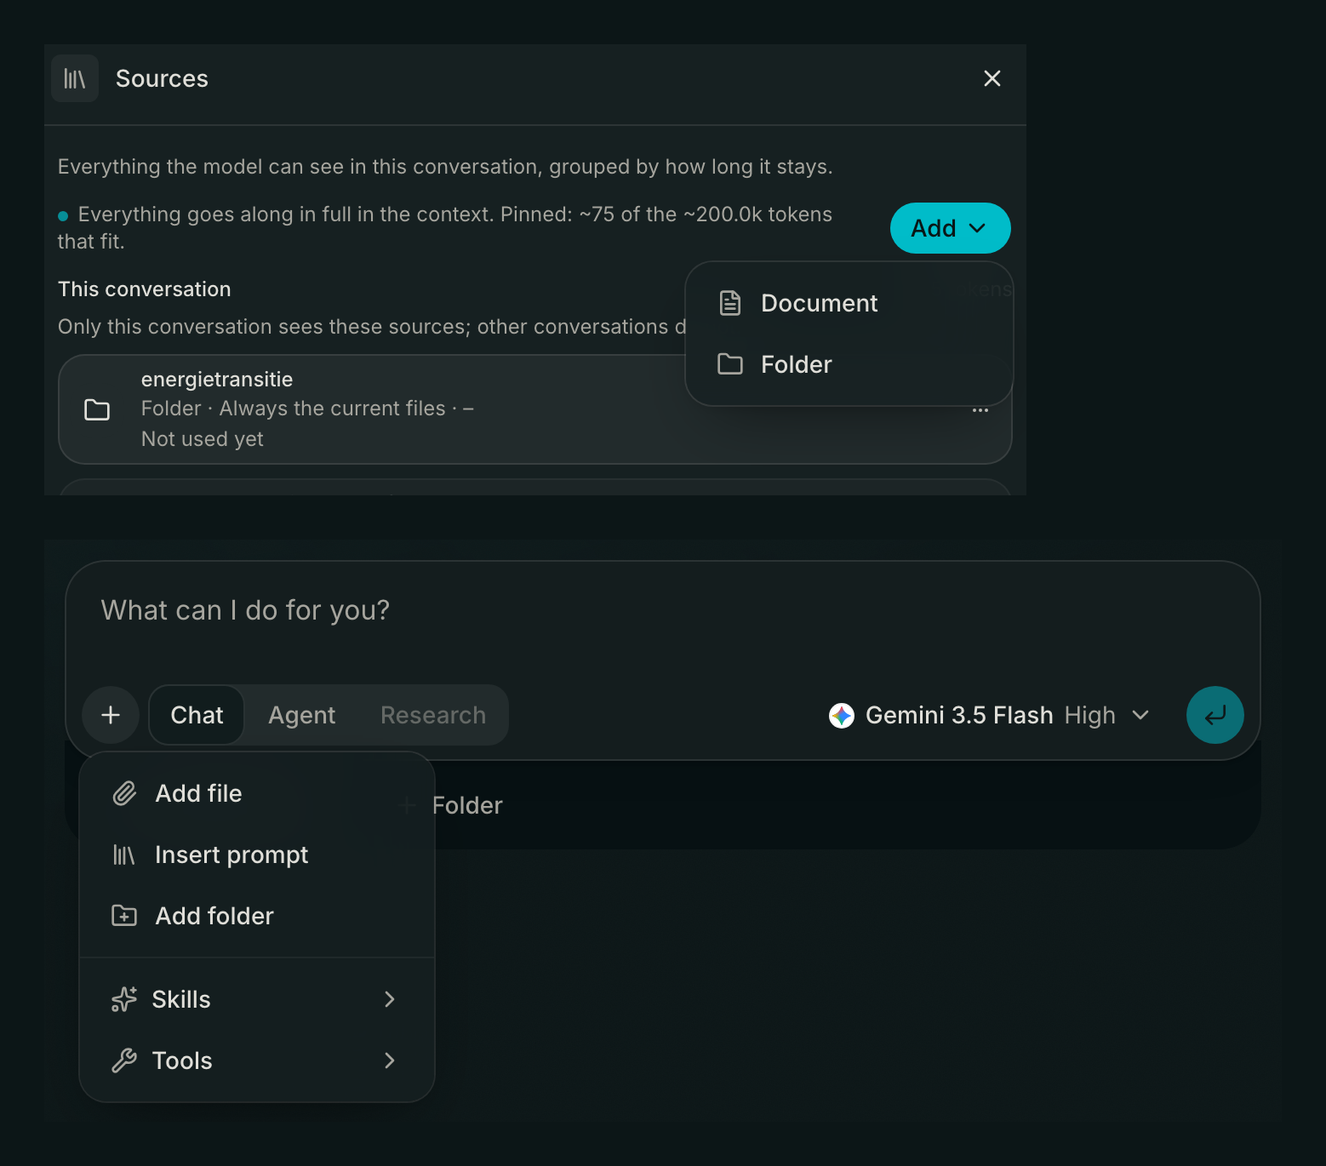
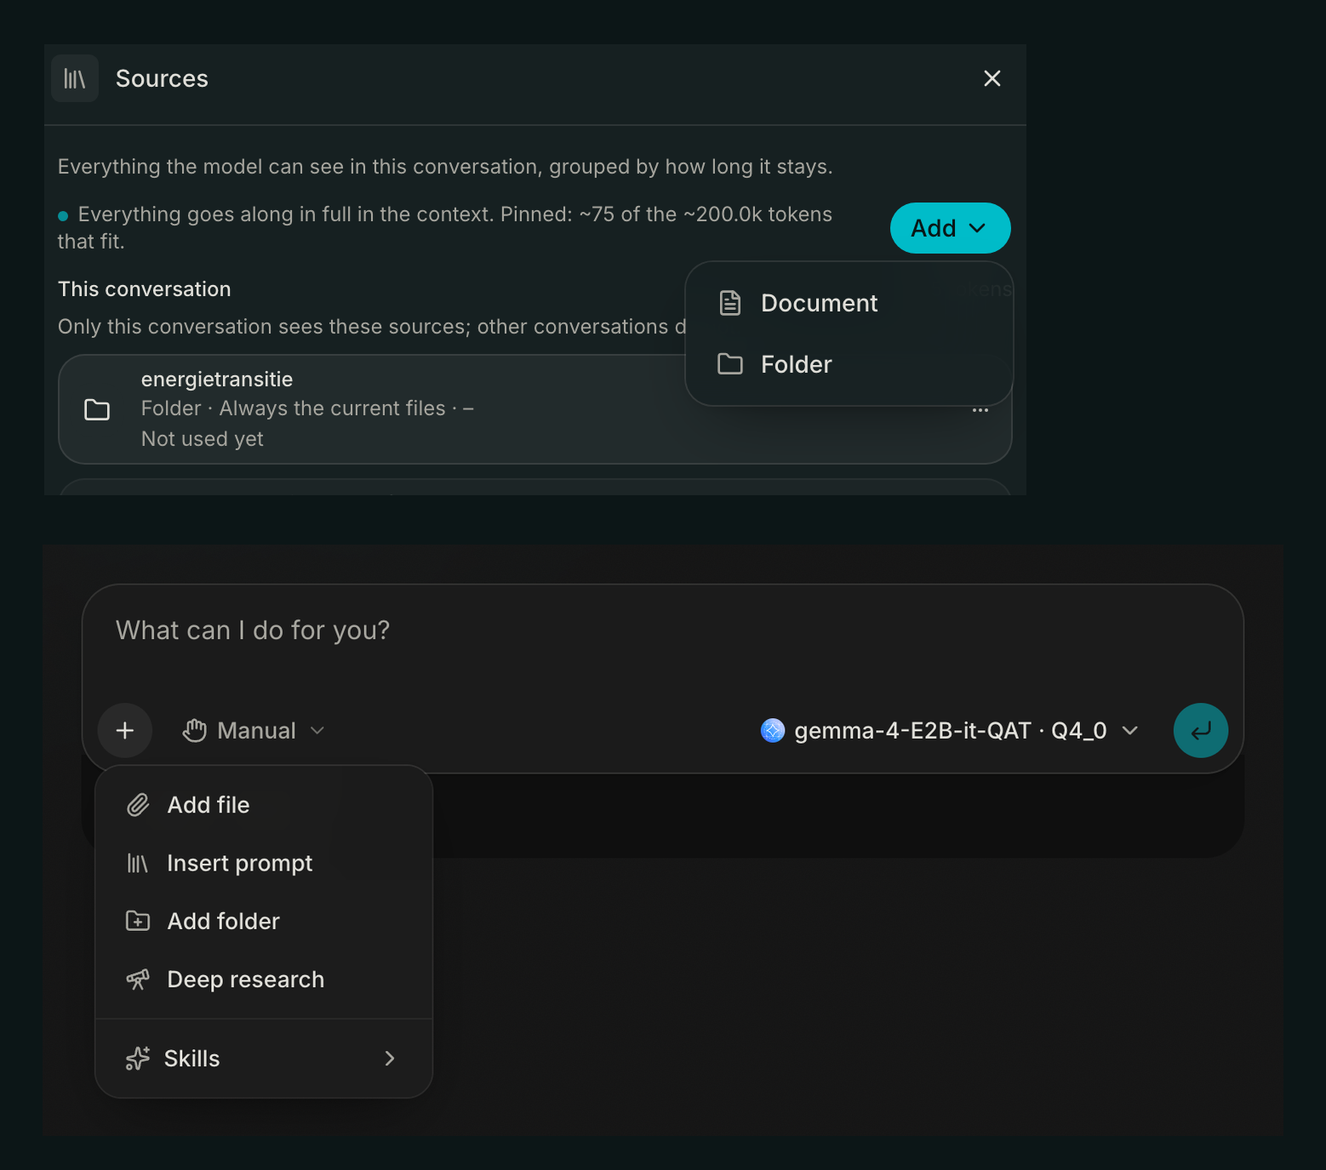
Documentatiesite bijgewerkt

diff --git a/docs/using/skills.html b/docs/using/skills.html
@@ -4,7 +4,7 @@
     <meta charset="utf-8" />
     <meta name="viewport" content="width=device-width, initial-scale=1" />
     <title>Skills - Omnissiah</title>
-    <meta name="description" content="Reusable instructions you switch on per conversation, written yourself or fetched from elsewhere." />
+    <meta name="description" content="Reusable instructions you attach to a message, or that the model picks up itself, written yourself or fetched from elsewhere." />
     <meta name="color-scheme" content="light dark" />
 
     <link rel="preconnect" href="https://fonts.googleapis.com" />
@@ -125,10 +125,12 @@
             <li><a href="#where-a-skill-lives">Where a skill lives</a></li>
             <li><a href="#writing-a-skill-yourself">Writing a skill yourself</a></li>
             <li><a href="#getting-a-skill-from-elsewhere">Getting a skill from elsewhere</a></li>
-            <li><a href="#switching-a-skill-on">Switching a skill on</a></li>
+            <li><a href="#attaching-a-skill-to-a-message">Attaching a skill to a message</a></li>
+            <li><a href="#who-may-invoke-a-skill">Who may invoke a skill</a></li>
             <li><a href="#what-the-model-does-with-your-skills">What the model does with your skills</a></li>
             <li><a href="#skills-that-arise-by-themselves">Skills that arise by themselves</a></li>
             <li><a href="#editing-and-deleting">Editing and deleting</a></li>
+            <li><a href="#when-a-skill-file-is-not-in-order">When a skill file is not in order</a></li>
           </ul>
         </li>
         <li><a href="memory.html">Memory</a></li>
@@ -163,8 +165,8 @@
         <article class="prose">
           <p class="kruimel"><a href="index.html">Working with Omnissiah</a></p>
           <h1>Skills</h1>
-          <p>A skill is a piece of instruction you keep and use again. The page sums it up: &quot;Skills are reusable instructions. An active skill colours the answers in the conversation.&quot; You find them behind <strong>Skills</strong> in the sidebar; that button takes you to the page <strong>Skills</strong>.</p>
-<p>Unlike a persona, a skill replaces nothing: it comes on top of what is already there, and you can have several on at once.</p>
+          <p>A skill is a piece of instruction you keep and use again. The page sums it up: &quot;Skills are reusable instructions. Attach one to a message with / in the composer; the model can also load one itself when the description fits.&quot; You find them behind <strong>Skills</strong> in the sidebar; that button takes you to the page <strong>Skills</strong>.</p>
+<p>Unlike a persona, a skill replaces nothing: it comes on top of what is already there, and you can attach several to one message. A skill reaches the model in two ways: you attach it to a message yourself, or the model picks it from the list on its own when the description fits your question. Nothing is switched on per conversation; a skill you attach belongs to that message and stays in the conversation history with it.</p>
 <h2 id="where-a-skill-lives">Where a skill lives</h2>
 <p>Every skill is a folder with a <code>SKILL.md</code> in it, in the <code>skills/</code> folder of your data folder. That is ordinary markdown with a name and a description at the top, so you can just as well open it in your own editor. It is the same format Claude uses, so skills are interchangeable. See <a href="../data-and-backup.html#what-is-in-it">Data and backup</a>.</p>
 <h2 id="writing-a-skill-yourself">Writing a skill yourself</h2>
@@ -178,32 +180,40 @@
 <p>In the same <strong>Add skill</strong> menu are two other ways in:</p>
 <p><strong>Import…</strong> reads a <code>SKILL.md</code> file from your disk and opens it in the editor. Nothing is stored until you click <strong>Save</strong>.</p>
 <p><strong>From a URL…</strong> fetches a skill from the internet. You paste a GitHub folder (&quot;github.com/anthropics/skills/tree/main/…&quot;) or the direct URL of a <code>SKILL.md</code>. Omnissiah fetches the skill, checks it over and puts it in the editor for review: where it came from, the files that came with it and what the scan found. Only then does the <strong>Install</strong> button appear.</p>
-<p>If the scan found something, it is stated as a warning: &quot;External skills are untrusted. Read the instructions above before you install.&quot; Installing then asks for an extra confirmation. A flag is a reason to look, not a lock; what exactly is scanned is on <a href="../privacy.html#what-comes-in-is-looked-at-first">Privacy and security</a>. Skills you fetch this way carry the label <strong>imported</strong> in the list.</p>
-<h2 id="switching-a-skill-on">Switching a skill on</h2>
-<p>Two ways, both per conversation:</p>
+<p>If the scan found something, it is stated as a warning: &quot;External skills are untrusted. Read the instructions above before you install.&quot; Installing then asks for an extra confirmation. A flag is a reason to look, not a lock; what exactly is scanned is on <a href="../privacy.html#what-comes-in-is-looked-at-first">Privacy and security</a>. Skills you fetch this way carry the label <strong>hub</strong> in the list, and the settings in their file (see below) survive the installation.</p>
+<h2 id="attaching-a-skill-to-a-message">Attaching a skill to a message</h2>
+<p>Two ways in, and both do the same thing: they add a chip above the input bar for the message you are about to send.</p>
 <ul>
-<li>Click the <strong>+</strong> on the input bar and open the list <strong>Skills</strong>. Ticking switches it on.</li>
-<li>Type a <code>/</code> in the input bar. A menu with your skills appears, filtering on whatever you type next; Enter or a click switches it on and removes the <code>/</code> word from your text. Skills that are already on have &quot;· active&quot; after them.</li>
+<li>Type a <code>/</code> in the input bar. A menu the width of the input bar appears with two sections: <strong>Commands</strong> (for now only <strong>Deep research</strong>) and <strong>Skills</strong>, each skill with its description and, in grey, where it came from. Whatever you type after the <code>/</code> filters the list; Enter or a click adds the skill and removes the <code>/</code> word from your text. At the bottom sits <strong>Manage skills…</strong>, which opens this page.</li>
+<li>Click the <strong>+</strong> on the input bar and open the list <strong>Skills</strong>. It shows the same rows; a click adds the chip.</li>
 </ul>
-<p>An active skill appears as a chip above the input bar, with a cross to switch it off again.</p>
+<p>Every chip has a cross to take it off again, and you can combine skills with <strong>Deep research</strong>. There is a soft ceiling: &quot;At most 5 skills per message.&quot; When you send, the chips go along with that message and the input bar is empty again. The sent message shows the skills it carried as chips at the top, and the action timeline of the answer says &quot;Skill ‘name’ attached to the message&quot;. Edit that message, or retry the answer, and the same skills go along again.</p>
+<h2 id="who-may-invoke-a-skill">Who may invoke a skill</h2>
+<p>For every skill you decide who may use it, in two layers.</p>
+<p>The <strong>skill file</strong> carries the default. The same fields other tools use work here: <code>disable-model-invocation: true</code> (Claude Code) or <code>allow_implicit_invocation: false</code> in <code>agents/openai.yaml</code> (Codex) mean &quot;only you&quot;, and <code>user-invocable: false</code> means &quot;only the model&quot;. A skill fetched from elsewhere keeps its author&#39;s intent that way.</p>
+<p>On the Skills page every skill has a picker next to it, <strong>Who may invoke</strong>. <strong>Follow the file</strong> is the default and states what the file says; the other four settings overrule the file: <strong>You and the model</strong>, <strong>Only you (/ menu)</strong>, <strong>Only the model</strong> and <strong>Off</strong>. Off keeps the skill installed but offers it nowhere, which is the right setting for a skill you are still weighing. Skills only the model may use do not appear in the <code>/</code> menu; skills only you may use are not in the model&#39;s list.</p>
+<p>One name is reserved: <code>research</code> is the command behind <code>/research</code>. A skill folder with that name gets a warning on the Skills page and cannot be attached with <code>/</code>; rename the folder.</p>
 <h2 id="what-the-model-does-with-your-skills">What the model does with your skills</h2>
 <p>Not everything goes along every turn, and that is deliberate: skills that sit fully in the prompt cost room in every turn.</p>
 <ul>
-<li><strong>Skills you switched on</strong> are in there in full.</li>
-<li><strong>Their extra files</strong> (a <code>references/</code> folder for instance) are in there only as a list of paths. The assistant reads one when the task calls for it.</li>
-<li><strong>The skills you did <em>not</em> switch on</strong> are in there as an index: name and description, one line per skill. If one fits your question, the assistant fetches the full instructions itself.</li>
+<li><strong>A skill you attached</strong> goes along with that message in full.</li>
+<li><strong>Its extra files</strong> (a <code>references/</code> folder for instance) are in there only as a list of paths. The assistant reads one when the task calls for it.</li>
+<li><strong>The skills the model may pick itself</strong> are in the prompt as an index: name and description, one line per skill. If one fits your question, the assistant fetches the full instructions itself.</li>
 </ul>
 <p>That last part is why that one description line counts: it is the only thing the model can see whether a skill is relevant by.</p>
-<p>If you run a local model that does not support tools, that fetching cannot happen. The active skills then go along in full including their extra files, and the index stays away: the prompt never promises something that is not there.</p>
+<p>If you run a local model that does not support tools, that fetching cannot happen. An attached skill then goes along in full including its extra files, and the index stays away: the prompt never promises something that is not there.</p>
+<p>A skill attached to a message from long ago falls out of view when a long conversation is <a href="conversations.html#when-a-conversation-gets-long">condensed</a>: the summary keeps the gist, not the instruction. Attach it again if you still want it.</p>
 <h2 id="skills-that-arise-by-themselves">Skills that arise by themselves</h2>
 <p>Two things can propose a skill. With both, you approve, and until that moment nothing is stored.</p>
-<p><strong>The assistant, during a conversation.</strong> Ask for it, or ask repeatedly for the same kind of help, and it can propose a skill. That proposal appears in the chat and waits for <strong>Approve</strong> or <strong>Reject</strong>. That happens through a tool called <strong>Propose skills</strong>; it is always available and every proposal waits for your approval, so there is nothing to switch off.</p>
+<p><strong>The assistant, during a conversation.</strong> Ask for it, or ask repeatedly for the same kind of help, and it can propose a skill. That proposal appears in the chat and waits for <strong>Approve</strong> or <strong>Reject</strong>. That happens through a tool called <strong>Propose skills</strong>; it is always available and every proposal waits for your approval, so there is nothing to switch off. A skill that came into being this way carries the label <strong>assistant</strong> in the list; the ones you wrote yourself say <strong>own</strong>, the ones you fetched say <strong>hub</strong>.</p>
 <p><strong>A helper model, after a turn.</strong> That checks whether the conversation holds a reusable lesson - the same post-turn review that also looks at your <a href="memory.html#suggestions-from-conversations">memory</a>. Such proposals pile up under <strong>Proposals from conversations</strong> on the Skills page, with a counter on the button in the sidebar: &quot;The assistant saw a reusable lesson here. Nothing is saved until you approve.&quot; Per proposal the reason is stated, with a quote from the message it rests on, and with <strong>View text</strong> you can read the whole skill first.</p>
 <p>If you do not want that, switch <strong>Self-learning skills</strong> off under Settings → General → Helper tasks. Which model does this you set there too; see <a href="models.html#helper-models-for-side-jobs">Models</a>.</p>
 <p>Skill and memory proposals share one ceiling per conversation - <strong>Suggestions per conversation</strong>, 3 by default. Once that is reached the review stops for the rest of that conversation, even if there was more to learn. Approving does not free up a slot: the ceiling counts every proposal that was made, whether you approved it or rejected it.</p>
 <p>A scheduled task makes no proposals at all: a run without anyone watching would only pile them up.</p>
 <h2 id="editing-and-deleting">Editing and deleting</h2>
-<p>Click a skill in the list to open it, or use the pencil. Deleting asks for confirmation and is final: &quot;This cannot be undone.&quot; The folder disappears from your disk, so your backup is your only way back.</p>
+<p>Click a skill in the list to open it, or use the pencil. Below the instructions the editor lists the files in the skill folder, such as a <code>references/</code> or <code>scripts/</code> folder; scripts are listed, not run. Deleting asks for confirmation and is final: &quot;This cannot be undone.&quot; The folder disappears from your disk, so your backup is your only way back.</p>
+<h2 id="when-a-skill-file-is-not-in-order">When a skill file is not in order</h2>
+<p>The list tells you. A folder without a <code>SKILL.md</code>, a name that is not a valid skill name, a missing description, an empty set of instructions: each is stated under the skill, and a skill that cannot be used at all is greyed out until you fix the file. Unknown fields in the file are never a problem; skills written for other tools keep working here.</p>
 
         </article>
         <nav class="voetnav" aria-label="Previous and next page"><a class="vorige" href="personas.html"><span class="richting">Previous</span>Personas</a><a class="volgende" href="memory.html"><span class="richting">Next</span>Memory</a></nav>

diff --git a/docs/using/conversations.html b/docs/using/conversations.html
@@ -165,12 +165,12 @@
         <article class="prose">
           <p class="kruimel"><a href="index.html">Working with Omnissiah</a></p>
           <h1>Conversations</h1>
-          <p>A conversation is the unit you work in. The model, its settings, the skills you switched on and the sources all apply per conversation, so you can have two side by side that behave completely differently.</p>
+          <p>A conversation is the unit you work in. The model, its settings and the sources all apply per conversation, so you can have two side by side that behave completely differently. Skills are the exception: you attach them per message, not per conversation.</p>
 <h2 id="what-a-conversation-can-do">What a conversation can do</h2>
 <p>There is no mode to pick. Every conversation is one and the same lane, and what the assistant can do in it follows from things you can see and set:</p>
 <ul>
 <li><strong>A linked folder</strong>, and whether it is read-only or may be written in. That is what decides whether anything on your disk can change. See <a href="working-in-a-folder.html">Working in a folder</a>.</li>
-<li><strong>The approval level</strong>, in the same bar, for everything that reaches outside the app.</li>
+<li><strong>The approval level</strong>, next to the <strong>+</strong> on the input bar, for everything that reaches outside the app.</li>
 <li><strong>A project set to Answer only from the sources</strong>, which closes off every route to material outside your sources. See <a href="projects.html#answer-only-from-the-sources">Projects</a>.</li>
 <li><strong>What your model can do.</strong> A model without tool support gets a plain lane and says so: &quot;does not support tools; the assistant can only chat. Tools come back when you pick a model that supports them.&quot; Eight steps per turn at most, and nothing is stored - pick a capable model again and everything is back.</li>
 </ul>
@@ -209,7 +209,7 @@
 <p>The menu of a conversation holds <strong>Pin</strong>, <strong>Rename</strong>, <strong>Labels</strong>, <strong>Move to project</strong>, <strong>Export as Markdown</strong> or <strong>JSON</strong>, and <strong>Delete</strong>. A pinned conversation stays at the top of the sidebar.</p>
 <p>You can search in two places. The command bar (⌘K, or Ctrl+K) searches your conversations and runs actions right away; the conversations page has its own search over titles and messages. The assistant can reach them too: the tool <strong>Conversation history</strong> lets it look up and read back an older conversation.</p>
 <h2 id="what-you-switch-on-per-conversation">What you switch on per conversation</h2>
-<p>Behind the <strong>+</strong> on the input bar sits a list <strong>Skills</strong>; what you tick there applies to this conversation only, and active skills appear as chips above the input bar. There is no list of tools there any more. What the model can do now follows from three things instead: tools that are always available, the settings of this conversation (a linked folder and whether it may write, the approval level, whether the project is source-bound), and what you have configured - web search exists once there is a Tavily key, and MCP servers you switch on for the whole app under <a href="mcp-servers.html">Settings → Tools</a>.</p>
+<p>Behind the <strong>+</strong> on the input bar sits a list <strong>Skills</strong>, and typing <code>/</code> opens the same skills as a menu; either way a skill becomes a chip above the input bar and goes along with the next message only, see <a href="skills.html#attaching-a-skill-to-a-message">Skills</a>. There is no list of tools there any more. What the model can do now follows from three things instead: tools that are always available, the settings of this conversation (a linked folder and whether it may write, the approval level, whether the project is source-bound), and what you have configured - web search exists once there is a Tavily key, and MCP servers you switch on for the whole app under <a href="mcp-servers.html">Settings → Tools</a>.</p>
 
         </article>
         <nav class="voetnav" aria-label="Previous and next page"><a class="vorige" href="index.html"><span class="richting">Previous</span>Working with Omnissiah</a><a class="volgende" href="projects.html"><span class="richting">Next</span>Projects</a></nav>

diff --git a/docs/using/sources.html b/docs/using/sources.html
@@ -178,7 +178,7 @@
 <h2 id="adding-a-source">Adding a source</h2>
 <p><strong>From the sources panel</strong> you click <strong>Add</strong>, with two choices: <strong>Document</strong> or <strong>Folder</strong>. Under Document you then pick <strong>Text</strong> (paste or type), <strong>File</strong> (&quot;Upload a PDF, Markdown or text file. The text is extracted and made searchable.&quot;) or <strong>URL</strong> (&quot;Give a URL; the readable content of the page is stored.&quot;).</p>
 <p><strong>From the input bar</strong> the <strong>+</strong> does something else. <strong>Add file</strong> makes an attachment to that one message, and dragging onto the input bar does the same. <strong>Add folder</strong> links a folder to the conversation.</p>
-<p><img src="../afbeeldingen/bronnen-twee-toevoegen-menus.png" alt="At the top the menu behind Add in the sources panel, with Document and Folder. Below it the plus menu on the input bar, with Add file, Insert prompt, Add folder, Skills and Tools." loading="lazy" decoding="async" /></p>
+<p><img src="../afbeeldingen/bronnen-twee-toevoegen-menus.png" alt="At the top the menu behind Add in the sources panel, with Document and Folder. Below it the plus menu on the input bar, with Add file, Insert prompt, Add folder, Deep research and Skills." loading="lazy" decoding="async" /></p>
 <p>That difference counts: an attachment belongs to one message, a document to the conversation or the project. You cannot drag anything into the sources panel itself.</p>
 <p>The first document you add takes noticeably longer than the ones after it. Omnissiah downloads a local embedding model once to make your documents searchable; see <a href="../data-and-backup.html#the-embedding-model">Data and backup</a>.</p>
 <h2 id="what-each-source-shows">What each source shows</h2>

diff --git a/docs/using/personas.html b/docs/using/personas.html
@@ -173,7 +173,7 @@
 <p>On the page every row starts a <strong>New chat</strong> with that persona on it. In the menu next to it are <strong>Edit</strong> and <strong>Delete</strong>.</p>
 <h2 id="switching-one-on-in-a-running-conversation">Switching one on in a running conversation</h2>
 <p>Click the <strong>+</strong> on the input bar and choose <strong>Insert prompt</strong>. That opens a window with the same three sections in a list on the left - deliberately no navigation, because you are in the middle of a conversation. Go to <strong>Personas</strong> there. What you get is a compact version: pick an existing persona from the dropdown or make one with <strong>New</strong>, and click <strong>Start persona</strong>. If you change the text of an existing persona, that change is saved as soon as you start it.</p>
-<p>An active persona appears as a chip above the input bar, with a cross to switch it off again.</p>
+<p>An active persona appears as a chip in the bar under the input bar, next to the linked folders, with a cross to switch it off again.</p>
 <h2 id="who-wins-in-a-conflict">Who wins in a conflict</h2>
 <p>If you work in a project, your project instructions and your persona are both in the prompt. The order is: project first, then the conversation. The more specific layer comes later and therefore wins. See <a href="projects.html#instructions">Projects</a>.</p>
 <h2 id="persona-groups">Persona groups</h2>

diff --git a/docs/using/index.html b/docs/using/index.html
@@ -164,7 +164,7 @@
     <li><a href="mcp-servers.html"><strong>MCP servers</strong><span>Hanging extra tools on the assistant through the Model Context Protocol, and deciding which of them join.</span></a></li>
     <li><a href="scheduled-tasks.html"><strong>Scheduled tasks</strong><span>Work that runs on a schedule while you are not there, in a task conversation of its own.</span></a></li>
     <li><a href="personas.html"><strong>Personas</strong><span>Giving the assistant a fixed role and tone, alone or in a group that answers together or separately.</span></a></li>
-    <li><a href="skills.html"><strong>Skills</strong><span>Reusable instructions you switch on per conversation, written yourself or fetched from elsewhere.</span></a></li>
+    <li><a href="skills.html"><strong>Skills</strong><span>Reusable instructions you attach to a message, or that the model picks up itself, written yourself or fetched from elsewhere.</span></a></li>
     <li><a href="memory.html"><strong>Memory</strong><span>What the assistant remembers about you between conversations, where it lives and how you clear it.</span></a></li>
     <li><a href="shortcuts.html"><strong>Shortcuts</strong><span>The defaults per platform, and how to make them your own.</span></a></li>
 </ul>

diff --git a/docs/using/working-in-a-folder.html b/docs/using/working-in-a-folder.html
@@ -179,7 +179,7 @@
 </ul>
 <p>Reading is always allowed once a folder is linked. On <strong>Read only</strong> the writing tools are not narrowed but absent: they are not in the turn at all, so there is nothing to approve and nothing to go wrong, and the same holds for a sub-agent the assistant farms work out to. A new conversation starts on read and write; conversations from before this setting kept exactly the permission their old mode gave them.</p>
 <h2 id="what-happens-without-asking">What happens without asking</h2>
-<p>The bar under the input bar holds the approval level. There are four settings, and they apply per conversation:</p>
+<p>Next to the <strong>+</strong> on the input bar sits the approval level. There are four settings, and they apply per conversation:</p>
 <ul>
 <li><strong>Approve manually.</strong> &quot;The agent pauses so you can approve every action.&quot; This is the default.</li>
 <li><strong>Approve automatically.</strong> &quot;The agent works on its own and only pauses for something risky.&quot;</li>
